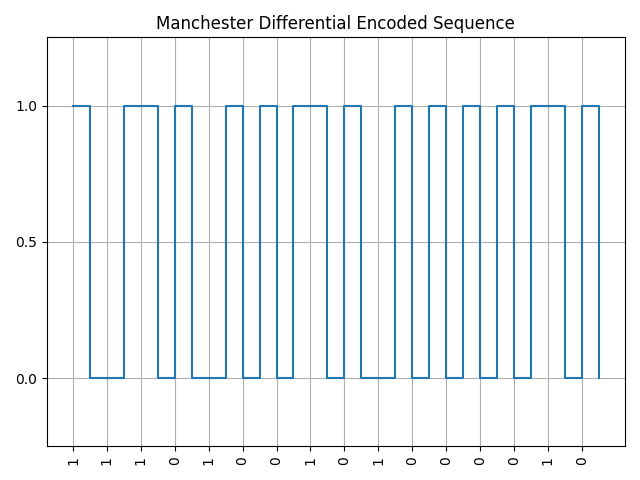
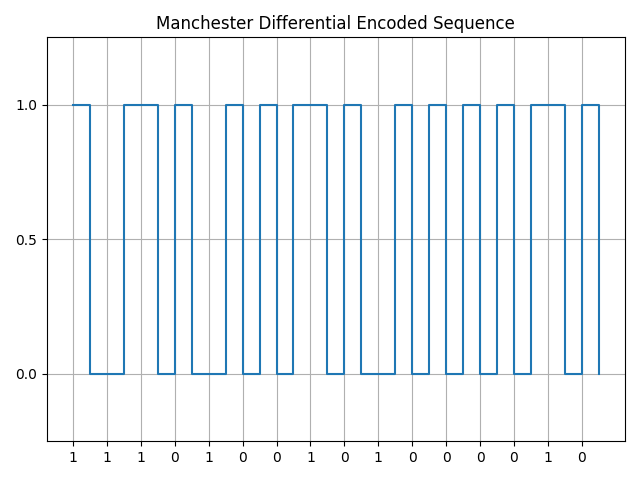
adjusting labels of the images'

diff --git a/project/utils/plot_encoding.py b/project/utils/plot_encoding.py
@@ -38,7 +38,7 @@ def plot_signal(bits, signal, title, file_path, negative_ylim=0.25, manchester=F
     plt.yticks([0, 0.5, 1])
     
     # Ajustando os rótulos dos bits no eixo X
-    plt.xticks(ticks, labels, rotation='vertical')
+    plt.xticks(ticks, labels)
     
     plt.tight_layout()
     plt.savefig(file_path)
